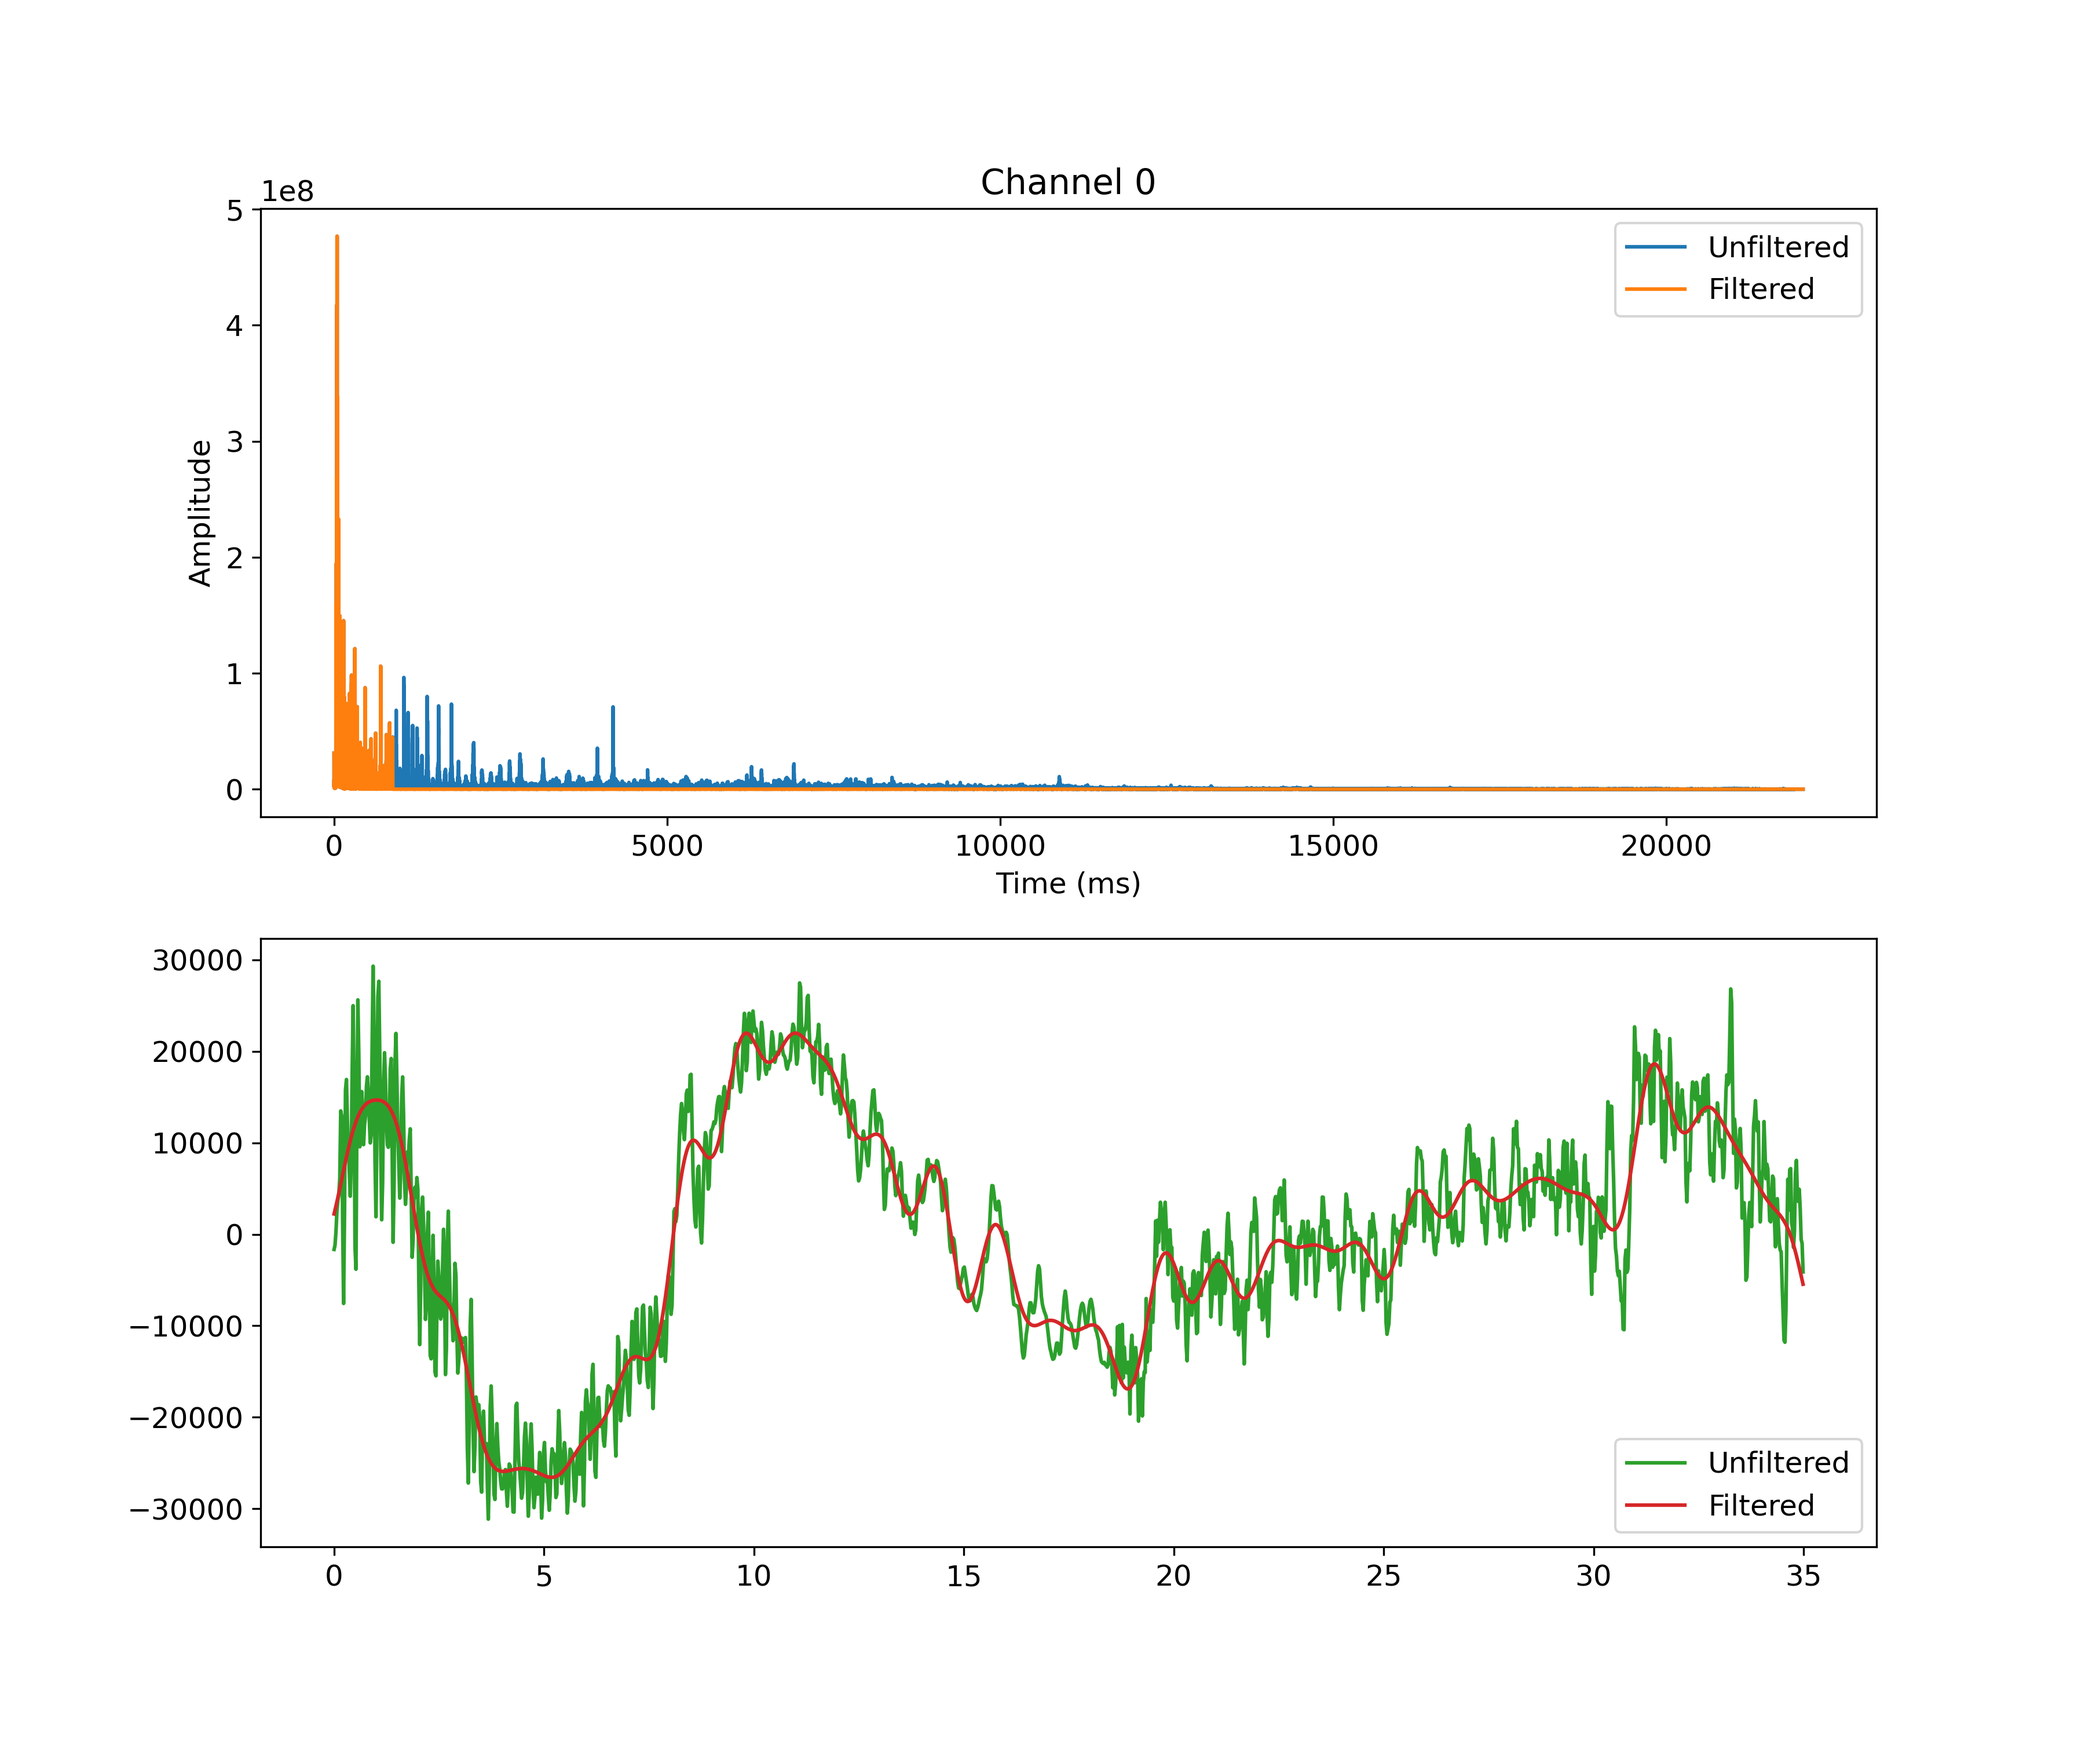
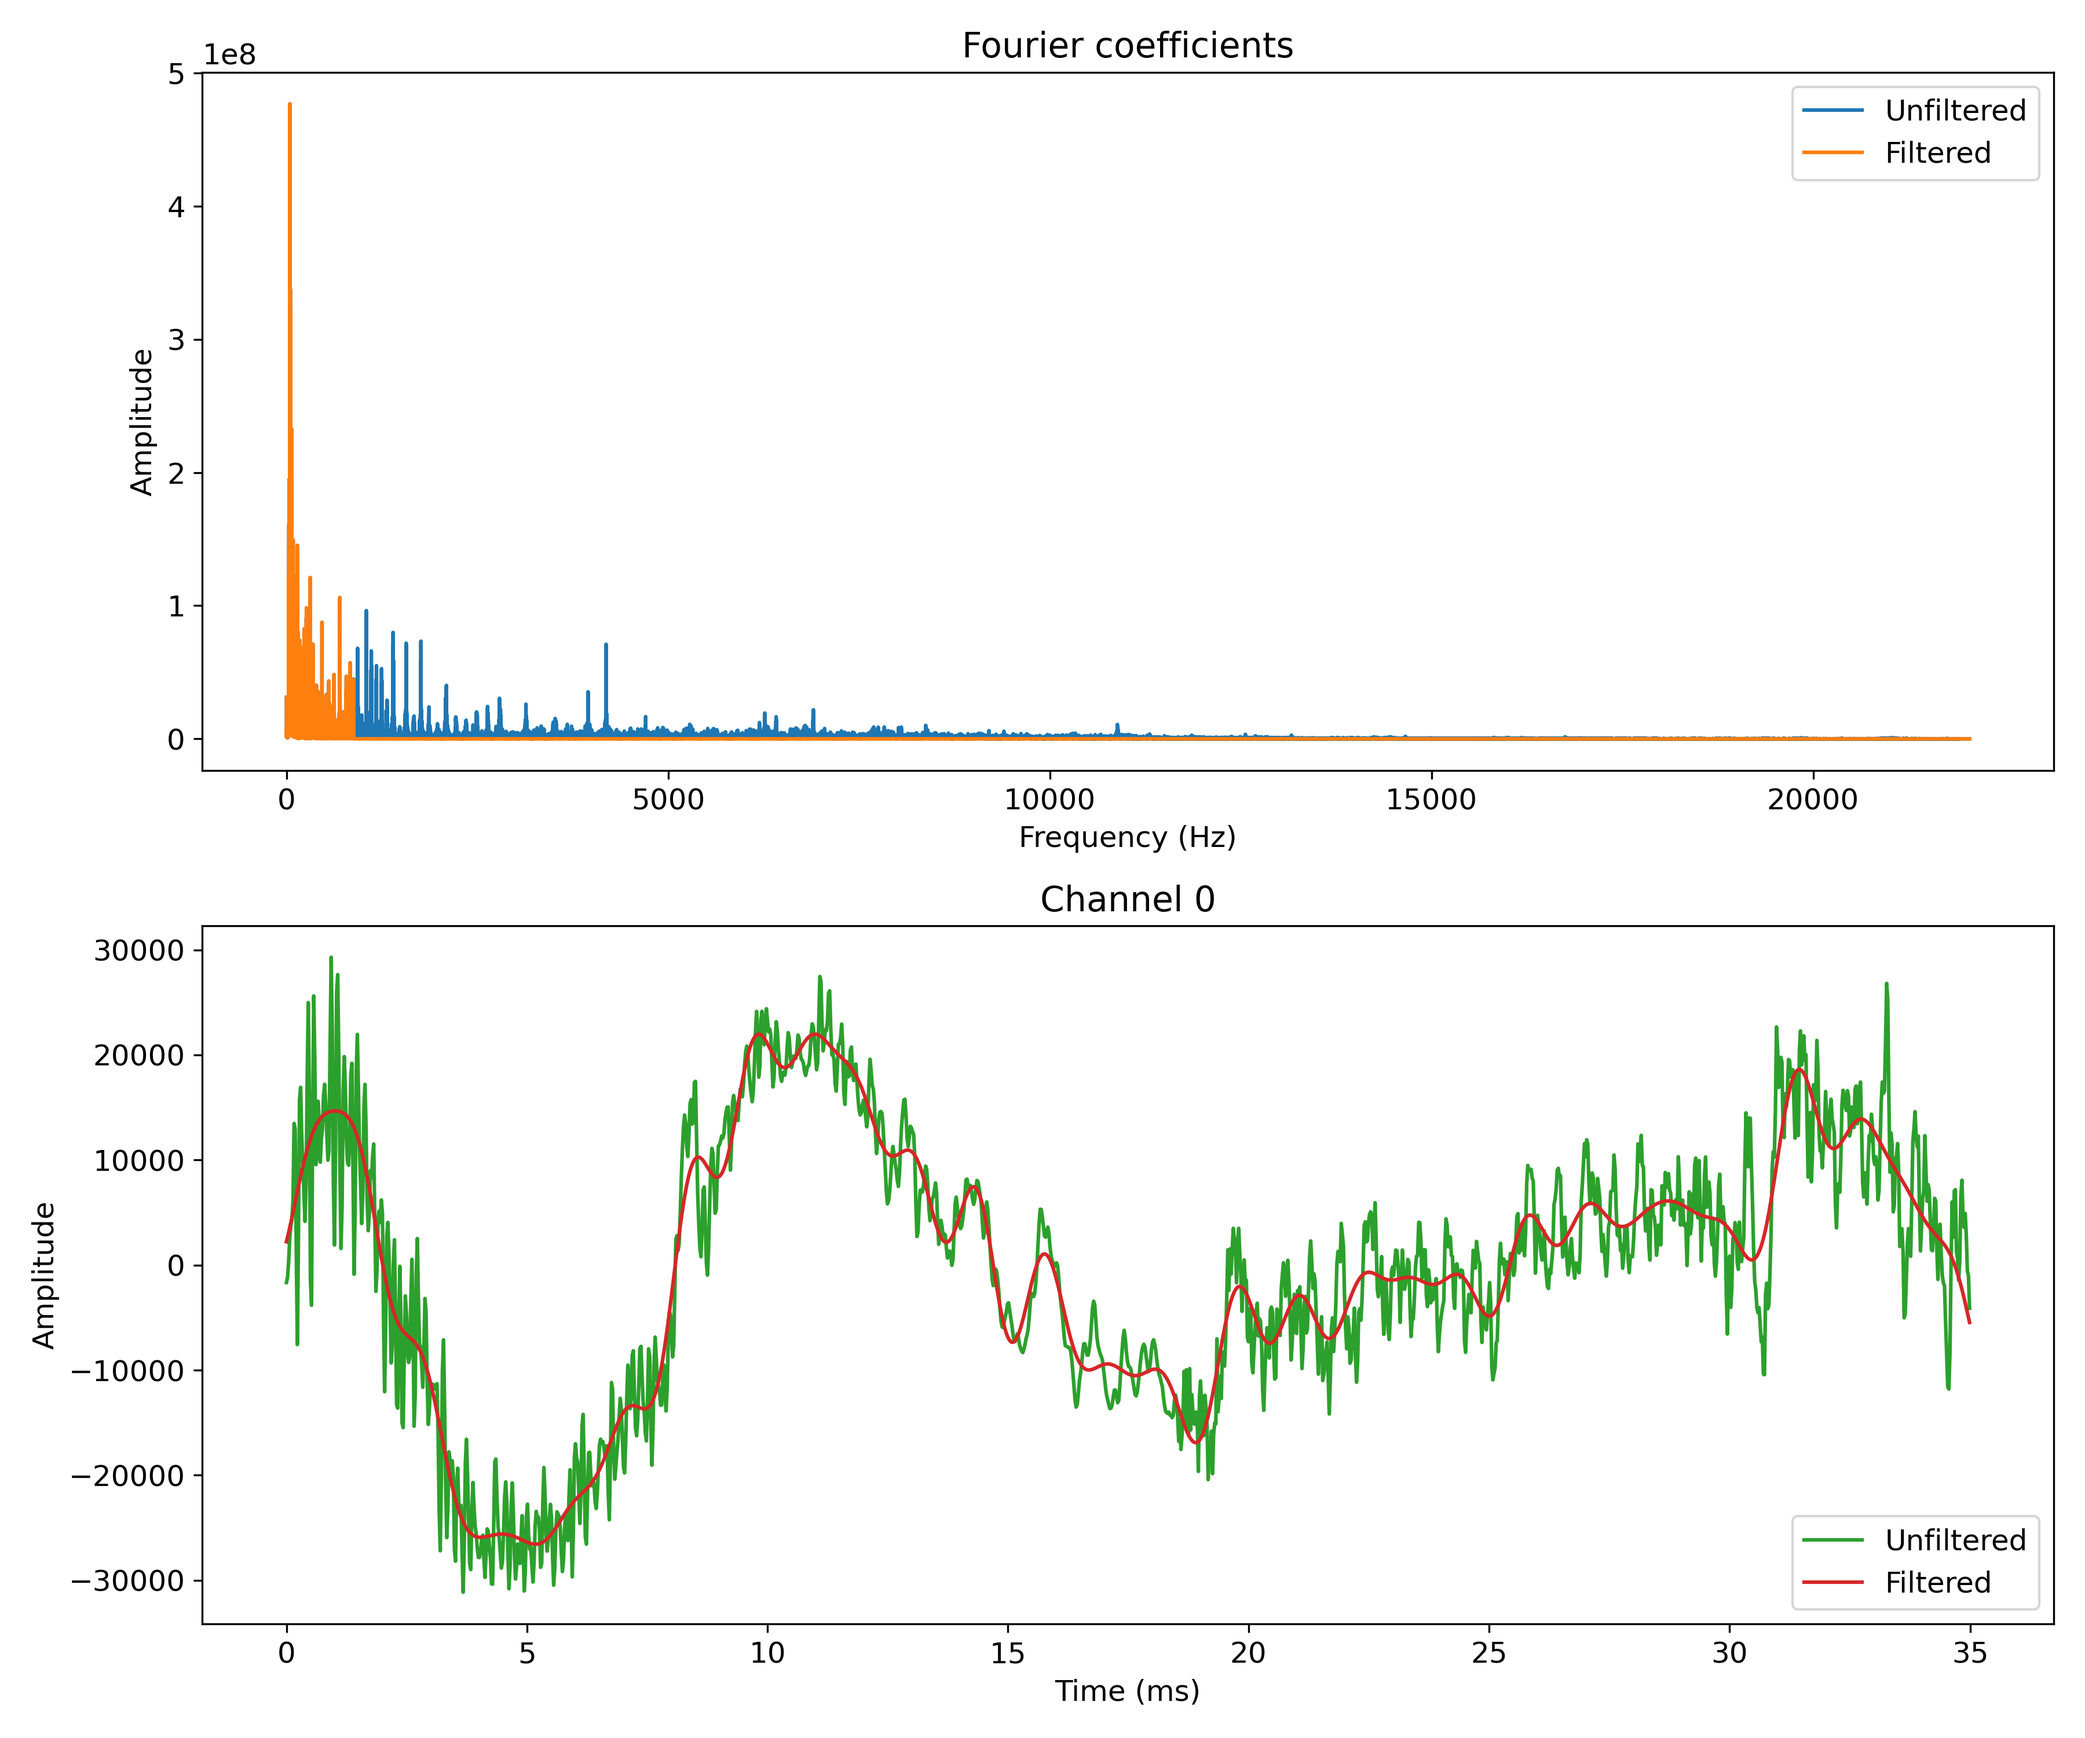
Fixed labels on coefficient/signal plots.

diff --git a/Week05/Lab05_Q02.py b/Week05/Lab05_Q02.py
@@ -157,11 +157,12 @@ for i, channel in enumerate(channels):
     ax1.plot(time_axis[:short_time_idx + 1] * 1e3, channel[: short_time_idx + 1], label='Unfiltered', c='C2')
     ax1.plot(time_axis[:short_time_idx + 1] * 1e3, filtered_channel[: short_time_idx + 1], label='Filtered', c='C3')
 
-    ax0.set_title(f'Channel {i}')
-    ax0.set_xlabel('Time (ms)')
-    ax0.set_ylabel('Amplitude')
+    ax1.set_title(f'Channel {i}')
+    ax1.set_xlabel('Time (ms)')
+    ax1.set_ylabel('Amplitude')
     ax1.legend()
 
+    plt.tight_layout()
     plt.savefig(f'Lab05_Q02_d_channel{i}.png')
     print('Done')
 
